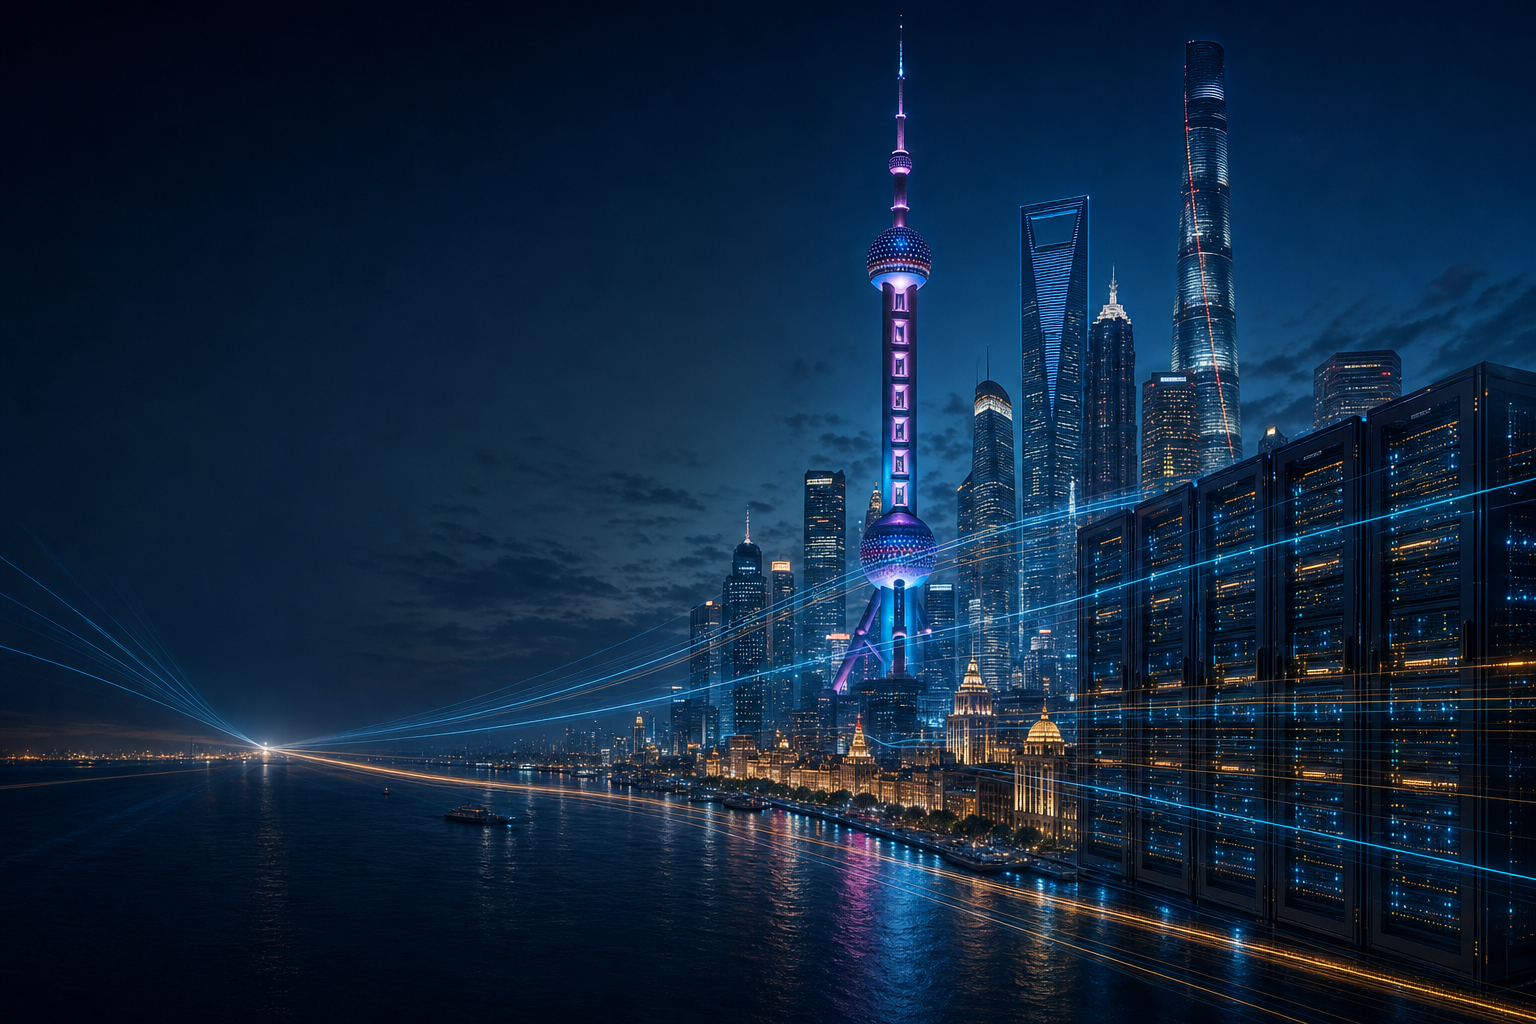
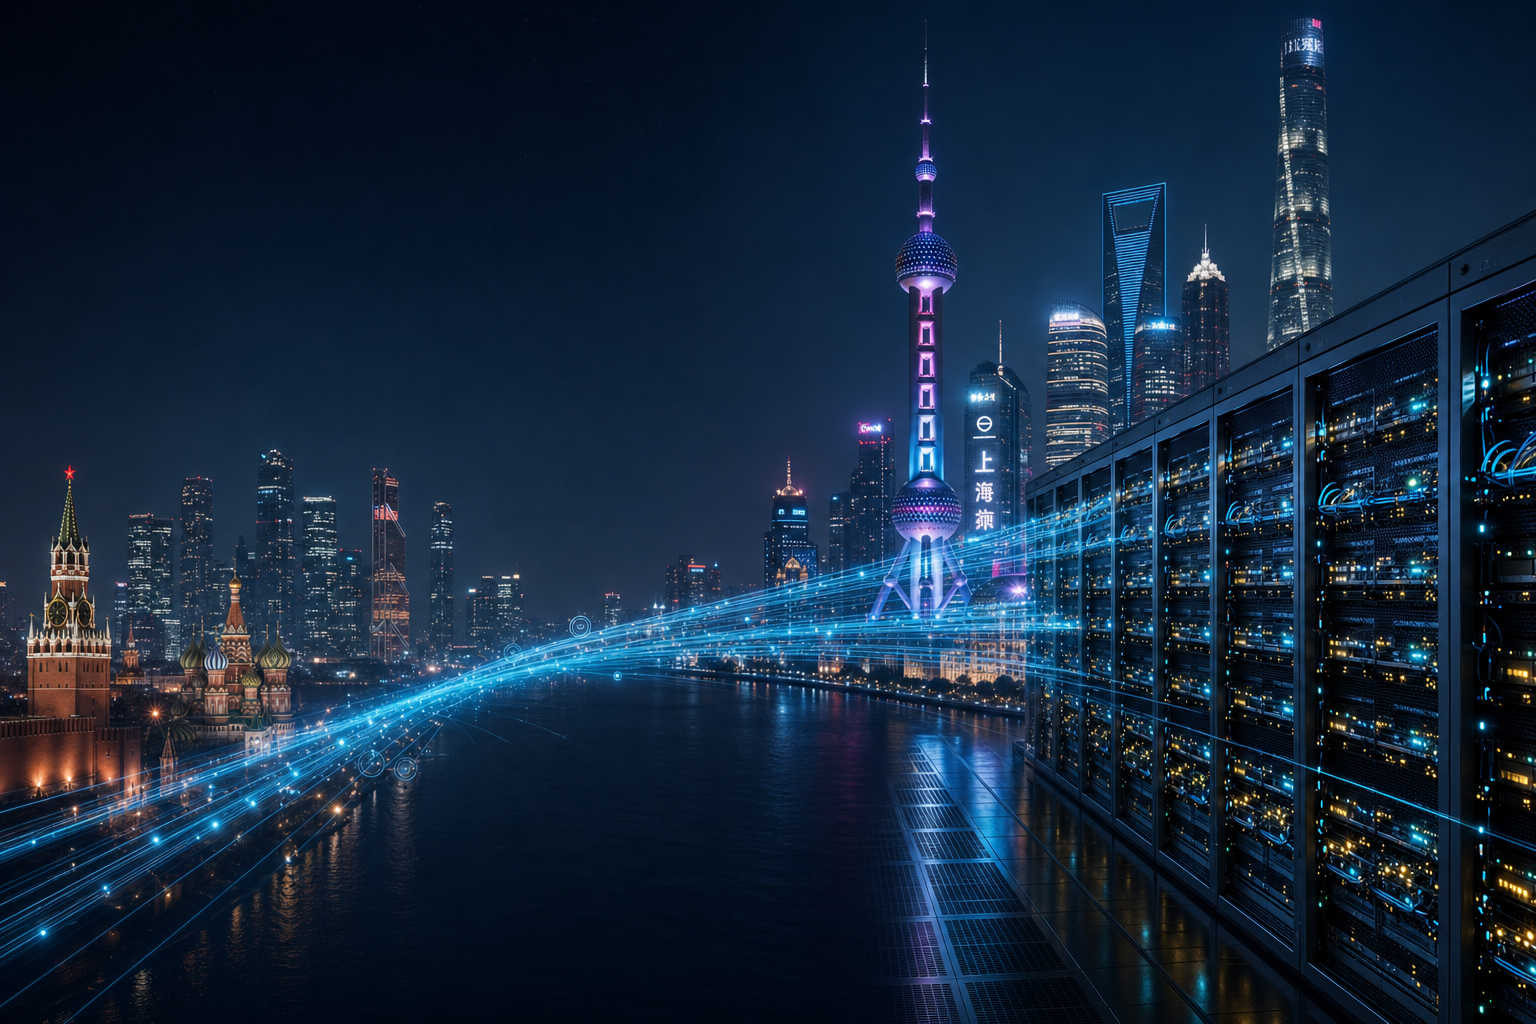
WEC: hero re-shoot — photoreal Moscow ↔ Pudong + GPU racks
- New hero-rack.jpg: cinematic photoreal night composite. Spasskaya
  Tower with red star and Saint Basil's domes on the left, multiple
  cyan fiber-optic light streams arcing across the Huangpu toward
  Pudong (Oriental Pearl, Shanghai Tower, SWFC, Jin Mao). Long row of
  HGX-class GPU racks with rows of cyan/amber LED status lights in the
  foreground right. No more cartoon look — telephoto night photo grade.
- CSS hero scrim re-tuned for the new image: object-position centered
  instead of pinned right, the heavy left vertical bar replaced with
  a softer radial darkening behind the headline so Moscow stays
  visible under the white text. Bottom fade kept for the SKU strip.
- Mobile media query updated to match (object-position 65%, vertical
  scrim).

diff --git a/gpu-servers/cloud/gpu.css b/gpu-servers/cloud/gpu.css
@@ -239,33 +239,32 @@ body.gpu-landing[lang="zh"] { font-family: 'Inter', 'Noto Sans SC', sans-serif; 
   width: 100%;
   height: 100%;
   object-fit: cover;
-  object-position: right center;
-  opacity: 0.88;
-  filter: saturate(0.95) contrast(1.08);
+  object-position: center center;
+  opacity: 0.96;
+  filter: saturate(1.04) contrast(1.06);
 }
 .gpu-hero-bg::after {
   content: '';
   position: absolute;
   inset: 0;
   background:
-    /* Left-side scrim to keep the headline legible over the dark sky */
-    linear-gradient(90deg,
-      rgba(11, 18, 32, 0.92) 0%,
-      rgba(11, 18, 32, 0.78) 28%,
-      rgba(11, 18, 32, 0.45) 52%,
-      rgba(11, 18, 32, 0.12) 74%,
-      rgba(11, 18, 32, 0.05) 100%),
+    /* Soft radial darkening behind the headline so Moscow stays visible */
+    radial-gradient(120% 95% at 22% 48%,
+      rgba(8, 14, 28, 0.72) 0%,
+      rgba(8, 14, 28, 0.45) 28%,
+      rgba(8, 14, 28, 0.10) 55%,
+      transparent 75%),
     /* Bottom fade into the page */
     linear-gradient(180deg,
-      rgba(11, 18, 32, 0.25) 0%,
-      rgba(11, 18, 32, 0.55) 70%,
-      rgba(11, 18, 32, 0.98) 100%);
+      rgba(8, 14, 28, 0.05) 0%,
+      rgba(8, 14, 28, 0.45) 72%,
+      rgba(8, 14, 28, 0.98) 100%);
 }
 .gpu-hero-bg::before {
   content: '';
   position: absolute;
   inset: 0;
-  background: radial-gradient(70% 60% at 78% 38%, rgba(34, 211, 238, 0.14) 0%, transparent 65%);
+  background: radial-gradient(60% 60% at 70% 35%, rgba(34, 211, 238, 0.10) 0%, transparent 65%);
   z-index: 1;
   pointer-events: none;
 }
@@ -287,13 +286,13 @@ body.gpu-landing[lang="zh"] { font-family: 'Inter', 'Noto Sans SC', sans-serif; 
 .gpu-hero-copy { max-width: 640px; }
 @media (max-width: 900px) {
   .gpu-hero-copy { max-width: 100%; }
-  .gpu-hero-bg img { object-position: 70% center; }
+  .gpu-hero-bg img { object-position: 65% center; }
   .gpu-hero-bg::after {
     background:
       linear-gradient(180deg,
-        rgba(11, 18, 32, 0.65) 0%,
-        rgba(11, 18, 32, 0.82) 55%,
-        rgba(11, 18, 32, 0.98) 100%);
+        rgba(8, 14, 28, 0.55) 0%,
+        rgba(8, 14, 28, 0.78) 55%,
+        rgba(8, 14, 28, 0.98) 100%);
   }
 }
 .gpu-hero-eyebrow {
